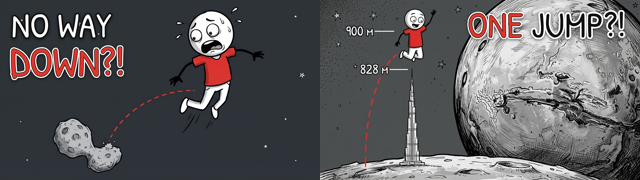
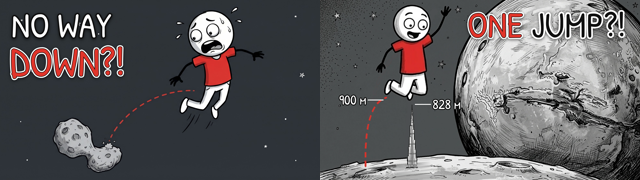
Ep10 thumbnail F: character enlarged 1.8x, tower scaled under him
Claude-Session: https://claude.ai/code/session_01QZBGd8qH4EfV1MNE2nHfnB

Changed region(s): [[0.5312, 0.0278, 0.7188, 1.0], [0.5625, 0.8333, 0.5938, 0.8889]]

diff --git a/episode10-jump-every-world/thumbnails/source/th.html b/episode10-jump-every-world/thumbnails/source/th.html
@@ -12,14 +12,14 @@ function cover(i){const s=Math.max(2560/i.width,1440/i.height),w=i.width*s,h=i.h
 async function v1(){cover(await img('comet.jpg'));
  T('NO WAY',90,300,280,'#fff',{stroke:22,strokeCol:'#111',shadow:1});
  T('DOWN?!',80,610,330,RED,{stroke:26,strokeCol:'#fff',shadow:1,inner:8,innerCol:'#111'});}
-async function v2(){cover(await img('phobos.webp'));
+async function v2(){cover(await img('phobos_big.png'));
  let x=1180;const w1=T('ONE ',x,300,290,RED,{stroke:26,strokeCol:'#fff',shadow:1,inner:8,innerCol:'#111'});
  T('JUMP?!',x+w1,300,290,'#111',{stroke:26,strokeCol:'#fff',shadow:1});
- // 828 m label at the tower tip
- ctx.save();ctx.strokeStyle='#fff';ctx.lineWidth=7;ctx.lineCap='round';ctx.beginPath();ctx.moveTo(700,556);ctx.lineTo(560,556);ctx.stroke();ctx.restore();
- T('828 m',545,590,110,'#fff',{align:'right',stroke:12,strokeCol:'#111'});
- // jump height label next to him
- ctx.save();ctx.strokeStyle='#fff';ctx.lineWidth=7;ctx.lineCap='round';ctx.beginPath();ctx.moveTo(590,250);ctx.lineTo(440,250);ctx.stroke();ctx.restore();
- T('900 m',425,285,110,'#fff',{align:'right',stroke:14,strokeCol:'#111'});}
+ // 828 m label at the (smaller) tower tip, on the right
+ ctx.save();ctx.strokeStyle='#fff';ctx.lineWidth=7;ctx.lineCap='round';ctx.beginPath();ctx.moveTo(762,835);ctx.lineTo(885,835);ctx.stroke();ctx.restore();
+ T('828 m',900,872,110,'#fff',{stroke:14,strokeCol:'#111'});
+ // jump height label at his feet, on the left
+ ctx.save();ctx.strokeStyle='#fff';ctx.lineWidth=7;ctx.lineCap='round';ctx.beginPath();ctx.moveTo(505,800);ctx.lineTo(385,800);ctx.stroke();ctx.restore();
+ T('900 m',370,837,110,'#fff',{align:'right',stroke:14,strokeCol:'#111'});}
 window.go=async v=>{await document.fonts.load('100px PH');await (v==1?v1():v2());};
 </script></body></html>

diff --git a/episode10-jump-every-world/thumbnails/source/comp.py b/episode10-jump-every-world/thumbnails/source/comp.py
@@ -1,0 +1,44 @@
+from PIL import Image, ImageDraw
+import numpy as np, math
+from scipy import ndimage as nd
+im=Image.open('phobos.webp').convert('RGB');A=np.asarray(im).astype(float);H,W=A.shape[:2]
+BG=np.array([76,79,81])
+def compmask(x0,y0,x1,y1,thr=28):
+    C=A[y0:y1,x0:x1];d=np.abs(C-BG).max(2)>thr
+    lab,n=nd.label(nd.binary_dilation(d,iterations=3));sizes=nd.sum(d,lab,range(1,n+1));k=np.argmax(sizes)+1
+    m=nd.binary_fill_holes(lab==k);M=np.zeros((H,W),bool);M[y0:y1,x0:x1]=m;return M
+FM=compmask(440,30,760,400);fy,fx=np.where(FM);fb=(fx.min(),fy.min(),fx.max()+1,fy.max()+1)
+fig=im.crop(fb);fa=Image.fromarray((FM[fb[1]:fb[3],fb[0]:fb[2]]*255).astype('uint8'))
+TM=compmask(480,415,680,972);TM[972:1025,528:623]=True;TM[1025:1045,518:631]=True;TM[1045:1069,497:655]=True
+ty,tx=np.where(TM);tb=(tx.min(),ty.min(),tx.max()+1,ty.max()+1)
+tower=im.crop(tb);ta=Image.fromarray((TM[tb[1]:tb[3],tb[0]:tb[2]]*255).astype('uint8'))
+out=A.copy();yy=np.arange(H)[:,None]
+E=nd.binary_dilation(FM|(TM&(yy<990)),iterations=5)
+red=(A[:,:,0]>150)&(A[:,:,1]<120)&(A[:,:,2]<120);E|=nd.binary_dilation(red&(yy<1000),iterations=4)
+out[E]=BG
+# ground under the old tower: sky above the horizon, then blend left/right ground columns (aligned on horizon)
+XL,XR=470,694;HL,HR=989,970;TH=8
+R=np.random.default_rng(3)
+for x in range(XL,XR):
+    t=(x-XL)/(XR-XL);h=HL+(HR-HL)*t;w=min(1,(x-XL+1)/10,(XR-x)/10)
+    for y in range(930,1125):
+        if y<h: c=BG
+        elif y<h+TH: c=np.array([22.,22.,22.])
+        else:
+            k=y-h;yl=int(min(1124,HL+k));yr=int(min(1124,HR+k))
+            c=A[yl,XL-1]*(1-t)+A[yr,XR]*t
+            c=np.clip(c*0.5+np.array([226.,226.,226.])*0.5+R.normal(0,2),0,255) if c.mean()<120 else c
+        out[y,x]=out[y,x]*(1-w)+c*w
+O=Image.fromarray(out.astype('uint8'))
+s=0.65;tw,th_=tower.size;nt=tower.resize((int(tw*s),int(th_*s)),Image.LANCZOS);na=ta.resize(nt.size,Image.LANCZOS)
+cx=(tb[0]+tb[2])/2;O.paste(nt,(int(cx-nt.size[0]/2),tb[3]-nt.size[1]),na);tip=tb[3]-nt.size[1]
+fs=1.8;fw,fh=fig.size;nf=fig.resize((int(fw*fs),int(fh*fs)),Image.LANCZOS);nfa=fa.resize(nf.size,Image.LANCZOS)
+fbot=tip-18;fx0=int(575-nf.size[0]/2)+10;fy0=fbot-nf.size[1];foot=(fx0+int((505-fb[0])*fs),fbot-25)
+d=ImageDraw.Draw(O);p0=(285,1040);c=(p0[0]-10,foot[1]+40);pts=[]
+for i in range(201):
+    t=i/200;pts.append(((1-t)**2*p0[0]+2*(1-t)*t*c[0]+t*t*foot[0],(1-t)**2*p0[1]+2*(1-t)*t*c[1]+t*t*foot[1]))
+acc=[0]
+for i in range(1,len(pts)):acc.append(acc[-1]+math.dist(pts[i-1],pts[i]))
+for i in range(1,len(pts)):
+    if acc[i]%58<34:d.line([pts[i-1],pts[i]],fill=(214,52,44),width=11)
+O.paste(nf,(fx0,fy0),nfa);O.save('phobos_big.png');print('tip',tip,'fig',fx0,fy0,fx0+nf.size[0],fbot,'foot',foot)
